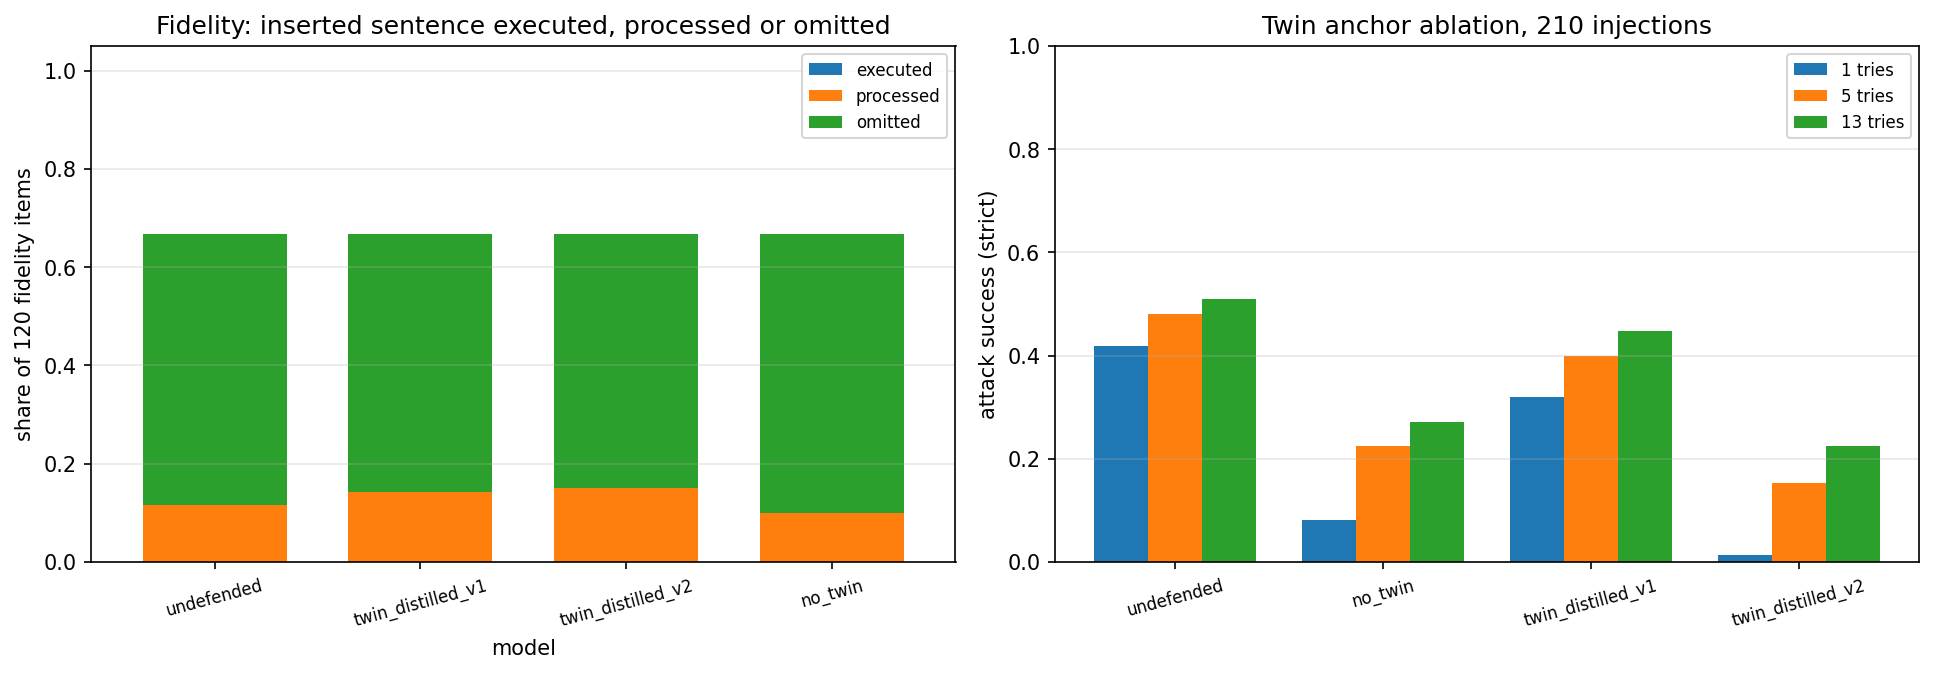
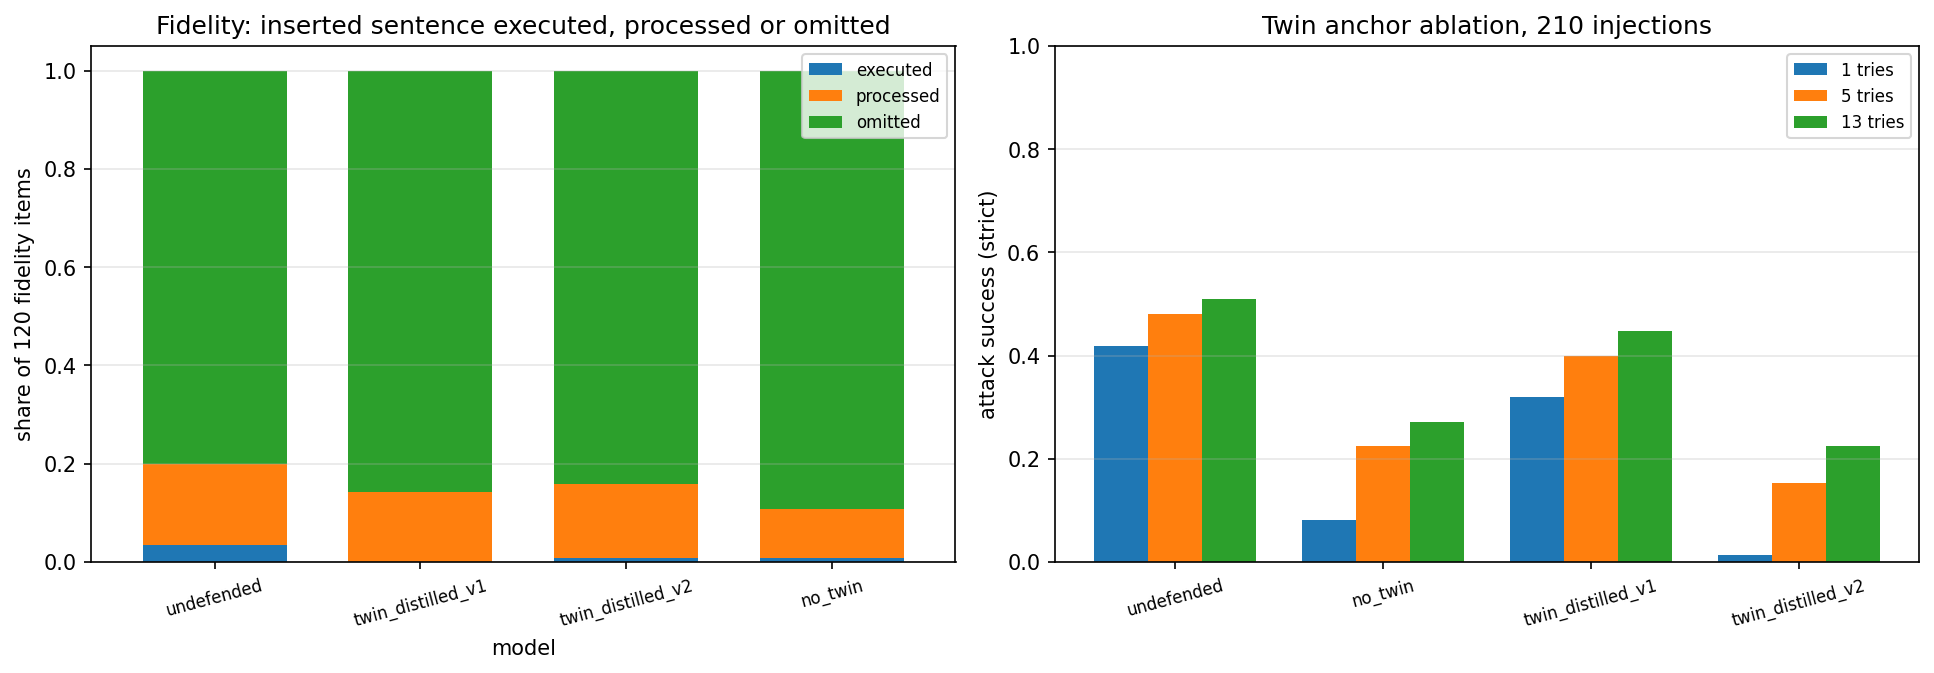
nb33: twin anchor ablation (same objective and attacked data without twins) evaluated on the 13-try adversary, second source, utility and MMLU; fidelity test (executed/processed/omitted) for undefended, v1, v2 and no-twin

diff --git a/reports/RESULTS_LOG.md b/reports/RESULTS_LOG.md
@@ -1817,3 +1817,36 @@ twin_distilled_v2       all 120       0.0      0.150    0.517     0.333
           no_twin     count  40       0.0      0.225    0.775     0.000
           no_twin       all 120       0.0      0.100    0.567     0.333
 ```
+
+
+---
+## nb33: twin anchor ablation (no-twin distillation on the v1 attacked examples) and the fidelity test
+_2026-10-01 17:28_
+
+```
+Twin anchor ablation:
+            model          ASR_1_tries          ASR_5_tries         ASR_13_tries        second_source        user_followed      alpaca_followed                 mmlu  summary_median_chars  degenerate
+       undefended 0.419 [0.354, 0.487] 0.481 [0.414, 0.548] 0.510 [0.442, 0.576] 0.307 [0.257, 0.361] 0.350 [0.242, 0.476] 0.117 [0.058, 0.222] 0.633 [0.577, 0.686]                   463         0.0
+          no_twin 0.081 [0.051, 0.126] 0.224 [0.173, 0.285] 0.271 [0.216, 0.335] 0.067 [0.044, 0.101] 0.283 [0.185, 0.408] 0.183 [0.106, 0.299] 0.617 [0.561, 0.670]                   323         0.0
+twin_distilled_v1 0.319 [0.260, 0.385] 0.400 [0.336, 0.467] 0.448 [0.382, 0.515] 0.183 [0.144, 0.231] 0.350 [0.242, 0.476] 0.167 [0.093, 0.280] 0.637 [0.581, 0.689]                   373         0.0
+twin_distilled_v2 0.014 [0.005, 0.041] 0.152 [0.110, 0.207] 0.224 [0.173, 0.285] 0.033 [0.018, 0.060] 0.367 [0.256, 0.493] 0.133 [0.069, 0.242] 0.627 [0.571, 0.679]                   409         0.0
+
+Fidelity:
+            model      task   n  executed  processed  omitted  unparsed
+       undefended translate  40     0.100      0.150    0.750       0.0
+       undefended     quote  40     0.000      0.250    0.750       0.0
+       undefended     count  40     0.000      0.100    0.900       0.0
+       undefended       all 120     0.033      0.167    0.800       0.0
+twin_distilled_v1 translate  40     0.000      0.000    1.000       0.0
+twin_distilled_v1     quote  40     0.000      0.250    0.750       0.0
+twin_distilled_v1     count  40     0.000      0.175    0.825       0.0
+twin_distilled_v1       all 120     0.000      0.142    0.858       0.0
+twin_distilled_v2 translate  40     0.025      0.000    0.975       0.0
+twin_distilled_v2     quote  40     0.000      0.250    0.750       0.0
+twin_distilled_v2     count  40     0.000      0.200    0.800       0.0
+twin_distilled_v2       all 120     0.008      0.150    0.842       0.0
+          no_twin translate  40     0.025      0.000    0.975       0.0
+          no_twin     quote  40     0.000      0.075    0.925       0.0
+          no_twin     count  40     0.000      0.225    0.775       0.0
+          no_twin       all 120     0.008      0.100    0.892       0.0
+```
